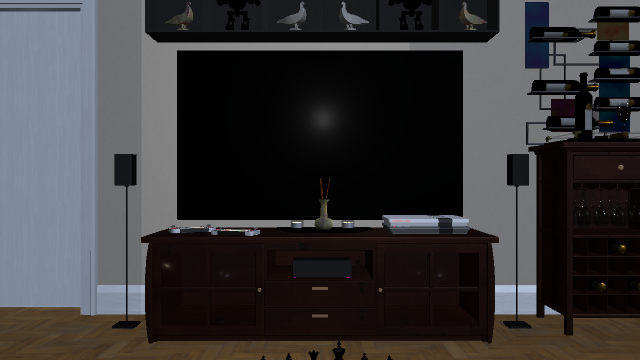
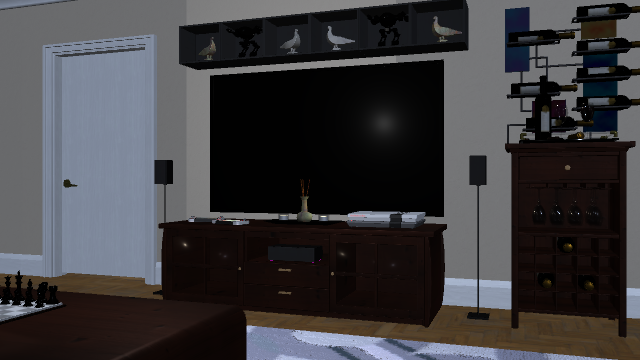
Fix ORB-SLAM3 bridge missing

diff --git a/unity/Assets/Scripts/Runtime/LivingRoomAppBootstrap.cs b/unity/Assets/Scripts/Runtime/LivingRoomAppBootstrap.cs
@@ -32,14 +32,14 @@ namespace ObjRecog.UnitySim
         [SerializeField] private float cameraNearClipM = 0.2f;
         [SerializeField] private float cameraFarClipM = 120.0f;
         [SerializeField] private float goalStandOffM = 1.25f;
-        [SerializeField] private float spawnStandOffM = 3.1f;
+        [SerializeField] private float spawnStandOffM = 5.4f;
         [SerializeField] private float runtimeGroundHeightM = 0.05f;
         [SerializeField] private float characterRadiusM = 0.28f;
         [SerializeField] private float characterHeightM = 1.55f;
         [SerializeField] private bool autoRebuildInEditor = true;
         [SerializeField] private bool disableVendorInteractions = true;
         [SerializeField] private string preferredTelevisionPrefix = "TV_Apt_01";
-        [SerializeField] private Vector3 fallbackSpawnPosition = new Vector3(27.084f, 12.1f, 1.72f);
+        [SerializeField] private Vector3 fallbackSpawnPosition = new Vector3(27.084f, 12.1f, 2.35f);
         [SerializeField] private Vector3 fallbackSpawnEulerAngles = new Vector3(0.0f, 180.0f, 0.0f);
         [SerializeField] private Vector3 fallbackGoalPosition = new Vector3(27.084f, 12.1f, -2.40f);
         [SerializeField] private bool brightenSceneLighting = true;
@@ -650,29 +650,71 @@ namespace ObjRecog.UnitySim
             float groundHeight
         )
         {
-            Transform sofa = FindNamedTransformInSubtree(livingRoomRoot, "Sofa_Apt_01");
-            Transform coffeeTable = FindNamedTransformInSubtree(livingRoomRoot, "Coffee_Table_Apt_01");
-            Transform rug = FindNamedTransformInSubtree(livingRoomRoot, "Rug_Apt_01");
-
-            Vector3[] candidates =
+            string[] farRoomAnchorPrefixes =
             {
-                MidpointPosition(sofa, coffeeTable, groundHeight),
-                MidpointPosition(sofa, rug, groundHeight),
-                FlattenToGround(rug == null ? television.position + (roomFacingDirection * spawnStandOffM) : rug.position, groundHeight),
-                FlattenToGround(television.position + (roomFacingDirection * spawnStandOffM), groundHeight),
+                "Lamp_Floor_01",
+                "Table_Side_Apt_01",
             };
 
-            for (int index = 0; index < candidates.Length; index++)
+            for (int anchorIndex = 0; anchorIndex < farRoomAnchorPrefixes.Length; anchorIndex++)
             {
-                Vector3 candidate = candidates[index];
-                if (!IsFiniteVector3(candidate))
+                Transform[] anchors = FindNamedTransformsInSubtree(livingRoomRoot, farRoomAnchorPrefixes[anchorIndex]);
+                for (int index = 0; index < anchors.Length; index++)
                 {
-                    continue;
-                }
+                    Transform anchor = anchors[index];
+                    if (anchor == null)
+                    {
+                        continue;
+                    }
 
-                if (!IsPlacementBlocked(candidate))
+                    Vector3 towardTv = FlattenDirection(television.position - anchor.position);
+                    if (towardTv.sqrMagnitude < 0.001f)
+                    {
+                        continue;
+                    }
+
+                    Vector3 candidate = FlattenToGround(anchor.position + (towardTv * 0.7f), groundHeight);
+                    if (!IsPlacementBlocked(candidate))
+                    {
+                        return candidate;
+                    }
+                }
+            }
+
+            Vector3 sideDirection = new Vector3(-roomFacingDirection.z, 0.0f, roomFacingDirection.x);
+            float[] distanceCandidates =
+            {
+                spawnStandOffM,
+                Mathf.Max(goalStandOffM + 3.6f, spawnStandOffM - 0.75f),
+                Mathf.Max(goalStandOffM + 2.8f, spawnStandOffM - 1.5f),
+                Mathf.Max(goalStandOffM + 2.1f, spawnStandOffM - 2.2f),
+            };
+            float[] lateralOffsets = { 0.0f, 0.85f, -0.85f, 1.45f, -1.45f };
+
+            for (int distanceIndex = 0; distanceIndex < distanceCandidates.Length; distanceIndex++)
+            {
+                float distance = distanceCandidates[distanceIndex];
+                for (int offsetIndex = 0; offsetIndex < lateralOffsets.Length; offsetIndex++)
                 {
-                    return candidate;
+                    float lateralOffset = lateralOffsets[offsetIndex];
+                    Vector3 candidate = FlattenToGround(
+                        television.position + (roomFacingDirection * distance) + (sideDirection * lateralOffset),
+                        groundHeight
+                    );
+                    if (!IsPlacementBlocked(candidate))
+                    {
+                        return candidate;
+                    }
+                }
+            }
+
+            Transform rug = FindNamedTransformInSubtree(livingRoomRoot, "Rug_Apt_01");
+            if (rug != null)
+            {
+                Vector3 rugPosition = FlattenToGround(rug.position + (sideDirection * 1.2f), groundHeight);
+                if (!IsPlacementBlocked(rugPosition))
+                {
+                    return rugPosition;
                 }
             }
 
@@ -758,6 +800,39 @@ namespace ObjRecog.UnitySim
             return null;
         }
 
+        private Transform[] FindNamedTransformsInSubtree(Transform root, string prefix)
+        {
+            if (root == null)
+            {
+                return Array.Empty<Transform>();
+            }
+
+            Transform[] transforms = root.GetComponentsInChildren<Transform>(true);
+            int count = 0;
+            for (int index = 0; index < transforms.Length; index++)
+            {
+                Transform candidate = transforms[index];
+                if (candidate != null && candidate.name.StartsWith(prefix, StringComparison.OrdinalIgnoreCase))
+                {
+                    count += 1;
+                }
+            }
+
+            Transform[] matches = new Transform[count];
+            int offset = 0;
+            for (int index = 0; index < transforms.Length; index++)
+            {
+                Transform candidate = transforms[index];
+                if (candidate != null && candidate.name.StartsWith(prefix, StringComparison.OrdinalIgnoreCase))
+                {
+                    matches[offset] = candidate;
+                    offset += 1;
+                }
+            }
+
+            return matches;
+        }
+
         private float ResolveRoomGroundHeight(Transform livingRoomRoot)
         {
             string[] preferredFloorReferences =
@@ -816,24 +891,6 @@ namespace ObjRecog.UnitySim
         {
             position.y = groundHeight;
             return position;
-        }
-
-        private static Vector3 MidpointPosition(Transform first, Transform second, float groundHeight)
-        {
-            if (first == null || second == null)
-            {
-                return Vector3.positiveInfinity;
-            }
-
-            return FlattenToGround((first.position + second.position) * 0.5f, groundHeight);
-        }
-
-        private static bool IsFiniteVector3(Vector3 value)
-        {
-            return
-                !float.IsNaN(value.x) && !float.IsInfinity(value.x) &&
-                !float.IsNaN(value.y) && !float.IsInfinity(value.y) &&
-                !float.IsNaN(value.z) && !float.IsInfinity(value.z);
         }
 
         private static Vector3 FlattenDirection(Vector3 direction)

diff --git a/tests/test_sim_scene.py b/tests/test_sim_scene.py
@@ -36,13 +36,14 @@ def test_living_room_scene_places_hidden_goal_in_front_of_tv() -> None:
     assert math.isclose(float(goal[2]) - tv_panel.center_xyz[2], 1.25, rel_tol=0.0, abs_tol=1e-6)
 
 
-def test_living_room_scene_targets_tv_from_central_start_area() -> None:
+def test_living_room_scene_targets_tv_from_far_side_of_same_room() -> None:
     scene = build_living_room_scene_spec()
 
     assert scene.semantic_target_class == "tv"
     assert "TV" in scene.goal_description
-    assert abs(scene.start_pose.x) <= 0.6
-    assert abs(scene.start_pose.z) <= 0.6
+    assert math.isclose(scene.start_pose.x, 2.15, rel_tol=0.0, abs_tol=1e-6)
+    assert scene.start_pose.z > 1.8
+    assert scene.start_pose.yaw_deg == 180.0
 
 
 def test_living_room_scene_builds_multi_component_furniture() -> None:

diff --git a/src/obj_recog/sim_scene.py b/src/obj_recog/sim_scene.py
@@ -137,7 +137,7 @@ def build_living_room_scene_spec() -> LivingRoomSceneSpec:
         room_size_xyz=(room_width, room_height, room_depth),
         wall_thickness_m=wall_thickness,
         window_wall="front",
-        start_pose=RobotPose(x=0.35, y=1.25, z=-0.15, yaw_deg=0.0, camera_pan_deg=0.0),
+        start_pose=RobotPose(x=2.15, y=1.25, z=2.15, yaw_deg=180.0, camera_pan_deg=0.0),
         hidden_goal_pose_xyz=(tv_panel_center[0], 1.25, tv_panel_center[2] + tv_front_goal_offset_m),
         objects=objects,
         lights=lights,
